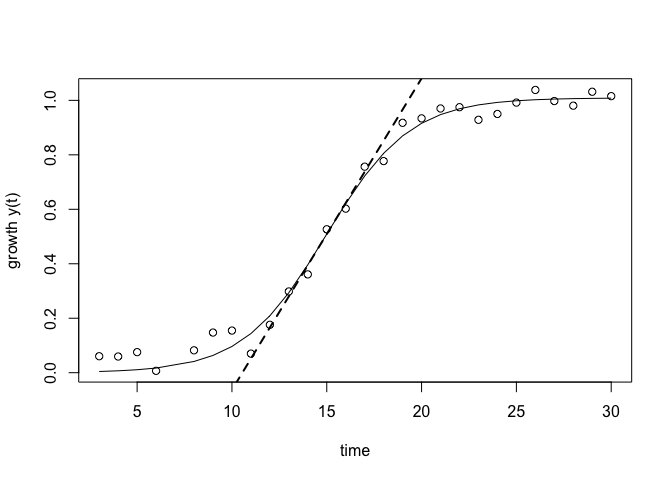
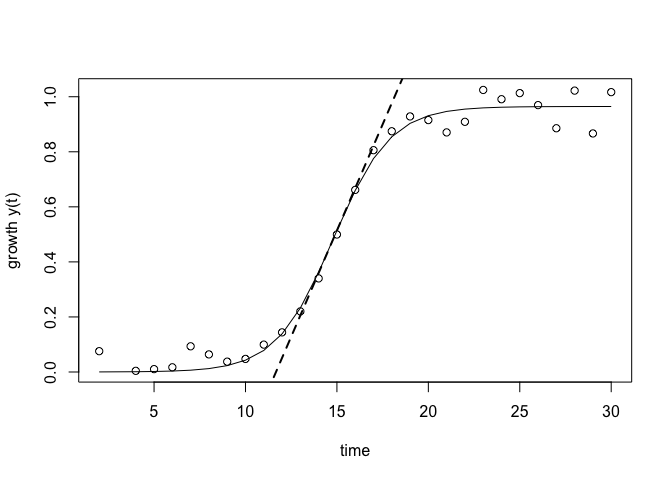
Added residual plot to README

diff --git a/README.md b/README.md
@@ -34,13 +34,13 @@ First, let's create some sample data containing some time points in the
 *Time* column and some corresponding growth measurements in the *OD600*
 column:
 
-    mdata <- data.frame(Time=1:30, OD600=1/(1+exp(0.5*(15-1:30)))+rnorm(30)/20)
+    sampledata <- data.frame(Time=1:30, OD600=1/(1+exp(0.5*(15-1:30)))+rnorm(30)/20)
 
 Now, let's fit a logistic growth curve for this data set:
 
     library(growthcurve)
 
-    lfit <- fit_growth_logistic(mdata, Time, OD600)
+    lfit <- fit_growth_logistic(sampledata, Time, OD600)
 
 Information about the logistic fit is available in `parameters`:
 
@@ -48,18 +48,18 @@ Information about the logistic fit is available in `parameters`:
 
     ## $A
     ##   Estimate Std. Error 
-    ## 1.00903973 0.01551511 
+    ##  0.9645620  0.0151592 
     ## 
     ## $mu
-    ##    Estimate  Std. Error 
-    ## 0.114354250 0.007443736 
+    ##   Estimate Std. Error 
+    ## 0.15421865 0.01359186 
     ## 
     ## $lambda
     ##   Estimate Std. Error 
-    ## 10.5501662  0.3188055 
+    ## 11.6677049  0.3106475 
     ## 
     ## $integral
-    ## [1] 15.16647
+    ## [1] 14.66587
 
 For this fit, the maximum growth value is 0.99848023
 (`lfit$parameters$A`), the maximum growth rate (the slope) is
@@ -73,6 +73,15 @@ We can also plot the results:
     plot(lfit)
 
 ![](figures/plot_example_logistic-1.png)
+
+If we'd like to take a look at how well the fitted curve matches the
+data, we can plot its residuals:
+
+    lfit.res <- residuals(lfit)
+    plot(x=lfit$raw.time, y=lfit.res, xlab='Time', ylab='Residuals')
+    abline(h=0)
+
+![](figures/resid_example_logistic-1.png)
 
 Feature Requests and Bug Reports
 --------------------------------
